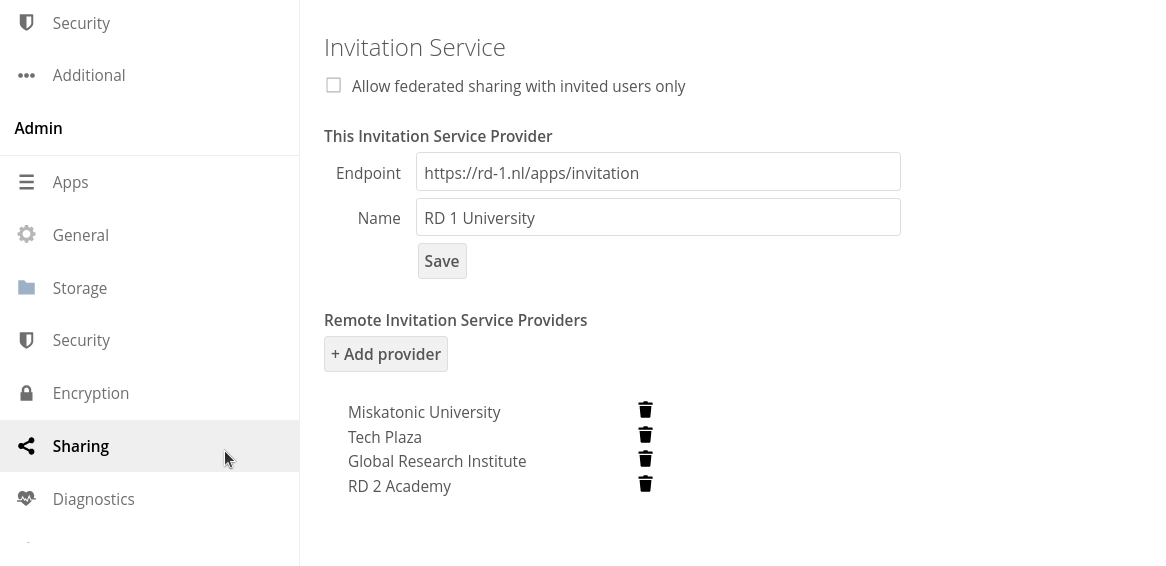
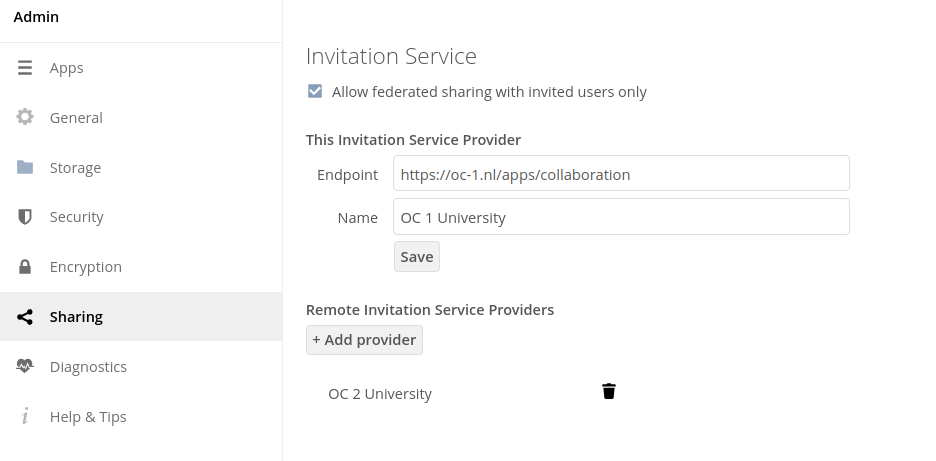
Fix some name change issues

diff --git a/README.md b/README.md
@@ -1,4 +1,4 @@
-# Invitation app for Federated Sharing
+# Collaboration app for Federated Sharing
 
 ---
 ### Enhanced federated sharing between Owncloud instances.
@@ -27,18 +27,18 @@ Depends on the following Owncloud apps: _Federated File Sharing_, _Notifications
 ### Building and installation
 Clone the project. The app runs in Owncloud so have a local Owncloud instance running. To deploy the app in your local Owncloud instance build it by first running `composer` from the project root folder as you would for any php project. This will create the `vendor` dependencies folder.<br>
 Next build the project by executing the command: `make version={version_number} buildapp`<br>
-This will create the `invitation_version_number.tar.gz` file in the `build/artifacts/app` folder. After extracting you must place the resulting `invitation` folder in the `apps` folder of your local Owncloud instance. This should make Owncloud aware of the app.<br>
+This will create the `collaboration_version_number.tar.gz` file in the `build/artifacts/app` folder. After extracting you must place the resulting `collaboration` folder in the `apps` folder of your local Owncloud instance. This should make Owncloud aware of the app.<br>
 Now you can activate it and start experimenting. For a full experience you should setup 2 instances between which you can send invitations and create federated shares.
 
 #### Using (official) releases
 Use one of the [official releases](https://github.com/sara-nl/oc-invitation/releases) or build your own compressed archive as explained [here](release/README.md).<br>
-Deploy the app by copying the extracted `invitation` folder of the official release or your own custom build to the Owncloud `apps` folder.<br>
+Deploy the app by copying the extracted `collaboration` folder of the official release or your own custom build to the Owncloud `apps` folder.<br>
 Finally the admin should activate the app. It should than be present as a menu entrance for all users.
 
 #### Activation
 To activate enhanced federated sharing (search and display invited remote users in the share dialog) the following configuration must be added to the `config.php` file of the Owncloud instance:
 ```
-'sharing.remoteShareesSearch' => '\\OCA\\Invitation\\Service\\RemoteUserService'
+'sharing.remoteShareesSearch' => '\\OCA\\Collaboration\\Service\\RemoteUserService'
 ```
 
 ---
@@ -46,8 +46,8 @@ To activate enhanced federated sharing (search and display invited remote users 
 To be able to send invitations between Owncloud instances the app must be installed on each one of them.<br>
 Also you must configure the other (remote) instances you want to be able to send invitations to. This is done on the admin settings section of the app (Settings page -> Admin Sharing page -> Invitation Service section).<br>
 <br>
-![Invitation app settings page](img/invitation-app-settings-page.png "Invitation app settings page")<br>
-Fig.2 Invitation app settings page.<br>
+![Invitation Service settings page](img/invitation-app-settings-page.png "Invitation Service settings page")<br>
+Fig.2 Invitation Service settings page.<br>
 
 ##### checkbox - Allow federated sharing with invited users only
 * Enabling this option prevents owncloud from showing the label of an uninvited remote user when typing in a cloud ID in the share dialog. Only invited remote users' labels will be displayed to you (as shown in [figure 1](../#enhanced-federated-sharing-between-owncloud-instances)).<br>
@@ -55,7 +55,7 @@ Fig.2 Invitation app settings page.<br>
 
 ##### section - This Invitation Service Provider
  * Here you should specify the endpoint and name of this instance's Invitation Service Provider.<br>
- The endpoint structure is as follows: `https://[host]/[path]/apps/invitation`
+ The endpoint structure is as follows: `https://[host]/[path]/apps/collaboration`
 
 ##### section - Remote Invitation Service Providers
  * Here you should specify all Invitation Service Providers you want to enable exchanging cloud IDs via invitations with.<br>
@@ -79,12 +79,12 @@ Check the outcome of the tests and fix any issue.<br>
 * [Building a release .tar.gz file](release/README.md)
 
 #### Development options
-* Display the generated invite link:<br>
+* To display the generated invite link upon the creation of an invite:<br>
 Add the key/value set to the db `appconfig` table to display the invite link after an invitation has been created:
 
-| appid      | configkey   | configvalue      |
-|------------|-------------|------------------|
-| invitation | deploy_mode | deploy_mode_test |
+| appid         | configkey   | configvalue      |
+|---------------|-------------|------------------|
+| collaboration | deploy_mode | deploy_mode_test |
 
 <br>
 
